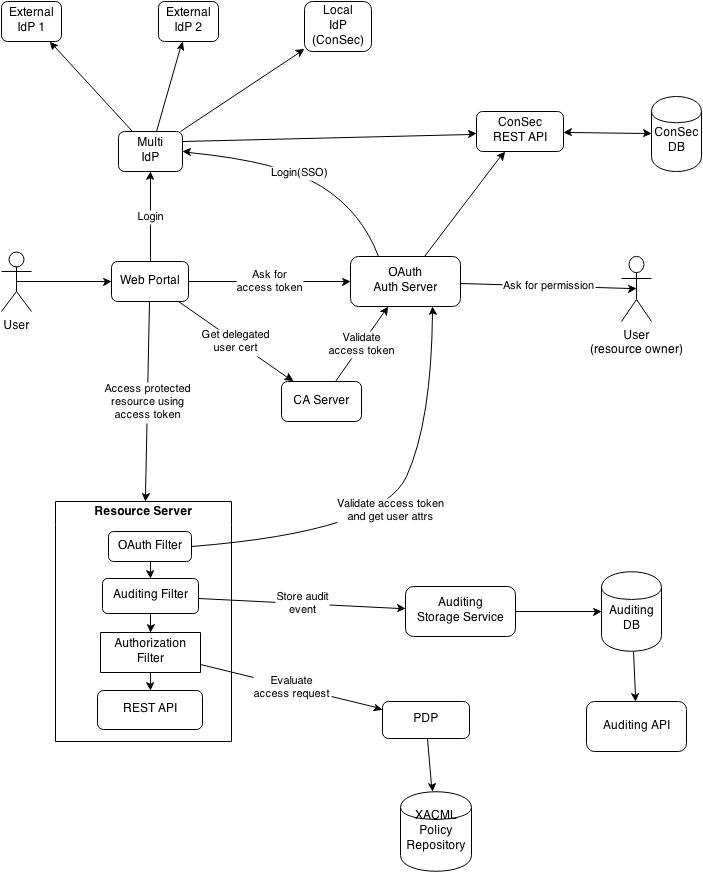
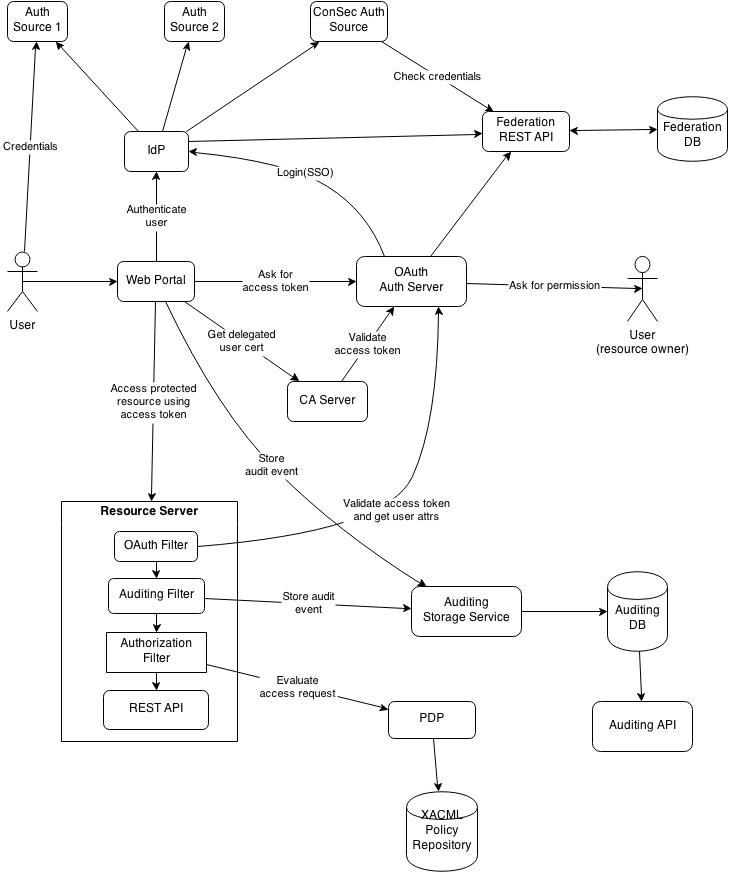
Improved architecture diagram, added short description of components.

diff --git a/README.md b/README.md
@@ -1,7 +1,74 @@
 ConSec
 ======
-**Federated cloud security framework**
+ConSec is a federated cloud security framework.
 
-Architecture
----------------
+# Architecture
+
+The following diagram depicts an overview of the architecture of the ConSec framework:
+
 ![ConSec architecture](docs/consec-architecture.jpg)
+
+# Short Description of the Components
+
+## Identity Provider (IdP)
+The Identity Provider is responsible for authentication of users and providing user's identity and 
+attributes information in the form of SAML assertions to the Service Providers. In the architecture depicted in the 
+upper diagram the Web Portal acts in the role of SAML Service Provider. The IdP enables single sign-on functionality.
+The ConSec IdP utilizes the SimpleSAMLphp software operating in the Identity Provider mode with the MultiAuth module 
+enabled which enables users to authenticate against various authentication sources.
+
+## Federation REST API (federation-api)
+The Federation REST API exposes federation database through REST interface.
+
+## Federation Database (federation-db)
+The Federation Database stores user profiles, roles, groups, attributes, identity providers.
+
+## Web Portal
+The Web Portal is a web application that provides some service to the users and uses ConSec framework for providing 
+security.
+
+## OAuth Authorization Server (OAuth Auth Server)
+The OAuth Authorization Server issues access tokens to the clients after successfully authenticating the resource 
+owner and obtaining authorization. The client uses the access token to access the protected resources hosted by the 
+resource server.
+
+## CA Server
+The CA Server issues delegated user certificates to the clients. The clients can use the certificate to access the 
+protected resources hosted by the resource server on behalf of the user. To request the certificate the client has 
+to provide a valid access token.
+
+## Resource Server
+The Resource Server is the server hosting the protected resources, capable of accepting and responding to protected 
+resource requests using access tokens. The ConSec provides three filters which can be plugged into the Resource 
+Server (implemented as a Java web application) to enable specific functionality: OAuth Filter, Auditing Filter, 
+and Authorization Filter. 
+
+## OAuth Filter
+The OAuth Filter is a servlet filter that can be plugged into java web application and provides support for the OAuth 
+protocol to applications having Resource Server role in the OAuth flow. The filter intercepts the HTTP requests,
+extracts OAuth access token from the request, validates the token and retrieves user information by calling OAuth 
+Authorization Server and injects that data in the request (HttpServletRequest object).
+
+## Auditing Filter
+The Auditing Filter is a servlet filter that can be plugged into java web application and provides auditing support. 
+For each incoming HTTP request an audit record is created and sent to the Auditing Storage Service. The degree of 
+details of audit records can be configured and adjusted to the specific application.
+
+## Authorization Filter
+The Authorization Filter is a servlet filter that can be plugged into java web application. It acts as a Policy 
+Enforcement Point (PEP) - it intercepts user's access request to a resource, makes a decision request to the PDP to 
+obtain the access decision (i.e. access to the resource is approved or rejected), and acts on the received decision.
+
+## Auditing Storage Service
+The Auditing Storage Service listens and receives audit records and stores them to the auditing database. It is made 
+modular and various communication channels for transporting audit records can be used as well as database systems.  
+
+## Auditing API
+The Auditing API provides REST interface for retrieving audit records from the auditing database using various search
+criteria.
+
+## Policy Decision Point (PDP)
+The Policy Decision Point receives decision requests from the Policy Enforcement Point (PEP) containing all the 
+relevant information about the request. The PDP evaluates the request using XACML authorization policies, 
+makes an access control decision and returns it to the PEP which simply enforces the decision. The authorization 
+policies are stored in the XACML Policy Repository. 
